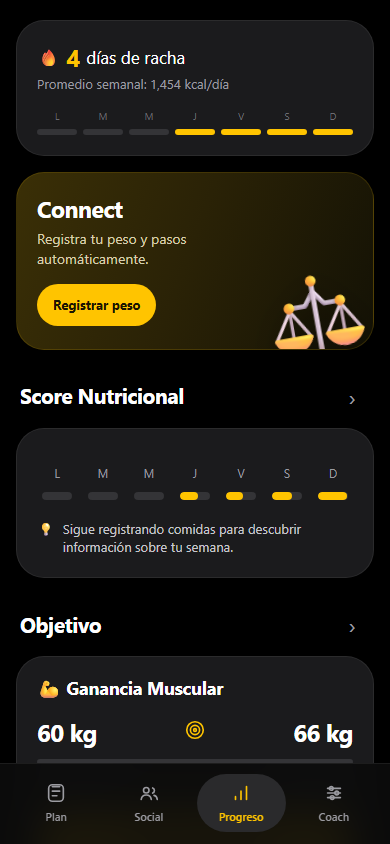
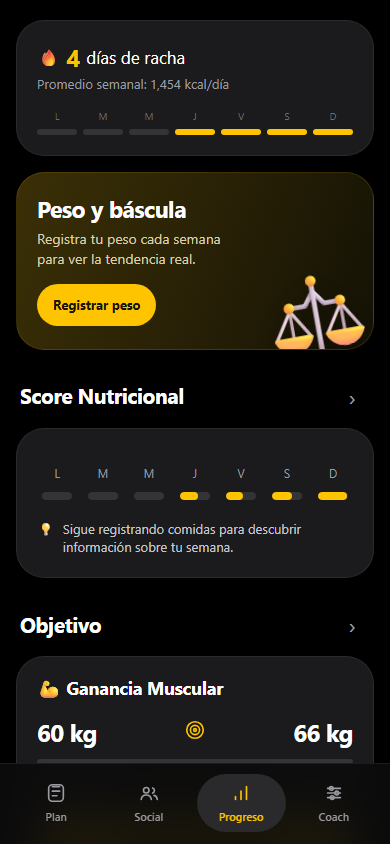
feat: comprimir fotos, deshacer sugerencias y compartir progreso

Changed region(s): [[0.0923, 0.2156, 0.5538, 0.3389], [0.0923, 0.3081, 0.1231, 0.3389]]

diff --git a/js/app.js b/js/app.js
@@ -76,7 +76,7 @@
     if (p.includes('desayuno')) {
       const items = Store.getDay(keyOf(new Date())).meals.desayuno;
       const names = items.map((i) => Store.foodById(i.id)?.name).filter(Boolean).join(' y ');
-      const breakfast = { label: 'Agregar desayuno sugerido', meal: 'desayuno', items: [{ id: 'avena', grams: 200 }, { id: 'huevo', grams: 100 }] };
+      const breakfast = { label: 'Reemplazar mi desayuno', action: 'replace', meal: 'desayuno', items: [{ id: 'avena', grams: 200 }, { id: 'huevo', grams: 100 }] };
       return {
         text: names
           ? `Tu desayuno de hoy lleva ${names}. Para variar sin salirte del plan, prueba avena con leche (200 g) y un huevo: aporta unos 530 kcal con proteínas y grasas más equilibradas.`
@@ -159,6 +159,20 @@
     }, 450);
   }
 
+  function compressImage(dataUrl, callback) {
+    const image = new Image();
+    image.onload = () => {
+      const scale = Math.min(1, 1024 / Math.max(image.width, image.height));
+      const canvas = document.createElement('canvas');
+      canvas.width = Math.max(1, Math.round(image.width * scale));
+      canvas.height = Math.max(1, Math.round(image.height * scale));
+      canvas.getContext('2d').drawImage(image, 0, 0, canvas.width, canvas.height);
+      callback(canvas.toDataURL('image/jpeg', 0.8));
+    };
+    image.onerror = () => callback(dataUrl);
+    image.src = dataUrl;
+  }
+
   function filterFoods(query) {
     const q = query.toLowerCase();
     document.querySelectorAll('#food-list .food-row').forEach((row) => {
@@ -181,6 +195,42 @@
     const grams = Number(inputValue('qty-input')) || 0;
     const n = Store.itemNutrition({ id: action.dataset.food, grams });
     preview.innerHTML = `<span>≈ ${UI.fmt(n.kcal)} kcal</span><span>${n.p}P / ${n.c}C / ${n.g}G</span>`;
+  }
+
+  function shareProgress() {
+    const proj = Store.projection();
+    const canvas = document.createElement('canvas');
+    canvas.width = 600;
+    canvas.height = 420;
+    const ctx = canvas.getContext('2d');
+    ctx.fillStyle = '#0b0b0b';
+    ctx.fillRect(0, 0, canvas.width, canvas.height);
+    ctx.fillStyle = '#ffc400';
+    ctx.font = 'bold 38px sans-serif';
+    ctx.fillText('NutriPlan', 40, 64);
+    ctx.fillStyle = '#ffffff';
+    ctx.font = 'bold 30px sans-serif';
+    ctx.fillText(`${proj.current} kg  →  ${proj.goal} kg`, 40, 124);
+    ctx.fillStyle = '#9b9ba1';
+    ctx.font = '20px sans-serif';
+    ctx.fillText(`Objetivo: ${Store.state.profile.goal}`, 40, 160);
+    ctx.fillText(`Racha: ${Store.streak()} días registrando`, 40, 190);
+
+    const days = Array.from({ length: 7 }, (_, i) => Store.totalsFor(keyOf(new Date(Date.now() - (6 - i) * 86400000))).kcal);
+    const max = Math.max(...days, 1);
+    days.forEach((value, i) => {
+      const height = (value / max) * 120;
+      ctx.fillStyle = i === 6 ? '#ffc400' : '#5d5d61';
+      ctx.fillRect(40 + i * 74, 330 - height, 46, height);
+    });
+    ctx.fillStyle = '#6c6c72';
+    ctx.font = '16px sans-serif';
+    ctx.fillText('Calorías de los últimos 7 días', 40, 380);
+    const link = document.createElement('a');
+    link.download = 'nutriplan-progreso.png';
+    link.href = canvas.toDataURL('image/png');
+    link.click();
+    toast('Imagen de progreso descargada');
   }
 
   function share(postId) {
@@ -412,6 +462,9 @@
       case 'share':
         share();
         break;
+      case 'share-progress':
+        shareProgress();
+        break;
       case 'story':
         openModal(UI.story(Number(el.dataset.index) || 0));
         break;
@@ -427,11 +480,24 @@
       case 'coach-apply': {
         const msg = Store.state.chat[Number(el.dataset.index)];
         if (!msg || !msg.suggestion) break;
-        const { meal, items } = msg.suggestion;
+        const suggestion = msg.suggestion;
+        const { meal, items } = suggestion;
         const today = keyOf(new Date());
+        if (suggestion.action === 'undo') {
+          Store.getDay(today).meals[meal] = suggestion.snapshot;
+          Store.save();
+          render();
+          toast('Cambio deshecho');
+          break;
+        }
+        const snapshot = JSON.parse(JSON.stringify(Store.getDay(today).meals[meal] || []));
+        if (suggestion.action === 'replace') Store.getDay(today).meals[meal] = [];
         items.forEach((item) => Store.addFood(today, meal, item.id, item.grams));
+        Store.addChat('coach', 'Listo, ya actualicé tu plan. Puedes deshacerlo si quieres.', {
+          label: 'Deshacer cambio', action: 'undo', meal, items: [], snapshot
+        });
         render();
-        toast(`${items.length} alimentos agregados a ${meal === 'cena' ? 'Cena' : meal === 'desayuno' ? 'Desayuno' : 'Snack 1'}`);
+        toast(suggestion.action === 'replace' ? 'Comida reemplazada' : `${items.length} alimentos agregados`);
         break;
       }
       case 'attach':
@@ -525,9 +591,11 @@
     if (event.target.id === 'food-photo-input' && event.target.files && event.target.files[0]) {
       const reader = new FileReader();
       reader.onload = () => {
-        pendingFoodPhoto = String(reader.result);
-        const preview = document.getElementById('food-photo-preview');
-        if (preview) preview.innerHTML = `<img src="${pendingFoodPhoto}" alt="Vista previa del alimento">`;
+        compressImage(String(reader.result), (photo) => {
+          pendingFoodPhoto = photo;
+          const preview = document.getElementById('food-photo-preview');
+          if (preview) preview.innerHTML = `<img src="${photo}" alt="Vista previa del alimento">`;
+        });
       };
       reader.readAsDataURL(event.target.files[0]);
     }
@@ -535,10 +603,12 @@
       const file = event.target.files[0];
       const reader = new FileReader();
       reader.onload = () => {
-        Store.addPhoto(String(reader.result));
-        openModal(UI.photo());
-        render();
-        toast('Foto guardada');
+        compressImage(String(reader.result), (photo) => {
+          Store.addPhoto(photo);
+          openModal(UI.photo());
+          render();
+          toast('Foto guardada');
+        });
       };
       reader.readAsDataURL(file);
     }

diff --git a/js/ui.js b/js/ui.js
@@ -175,6 +175,29 @@
     </div>`).join('');
   }
 
+  function calTrend() {
+    const today = new Date();
+    const days = Array.from({ length: 14 }, (_, i) => {
+      const date = addDays(today, i - 13);
+      const key = keyOf(date);
+      return { key, label: date.getDate(), value: Store.totalsFor(key).kcal };
+    });
+    const max = Math.max(Store.state.profile.targets.kcal, ...days.map((d) => d.value), 1);
+    const coords = days.map((d, i) => {
+      const x = 4 + (i / 13) * 92;
+      const y = 56 - (d.value / max) * 48;
+      return { x, y, value: d.value, label: d.label };
+    });
+    const line = coords.map((p, i) => `${i ? 'L' : 'M'} ${p.x.toFixed(1)} ${p.y.toFixed(1)}`).join(' ');
+    const logged = days.filter((d) => d.value > 0);
+    const average = logged.length ? Math.round(logged.reduce((sum, d) => sum + d.value, 0) / logged.length) : 0;
+    return `<div class="trend-head"><div><div class="small muted">Promedio registrado</div><strong>${average ? fmt(average) + ' kcal' : '—'}</strong></div><div class="small muted">${logged.length}/14 días</div></div>
+      <svg class="trend-svg" viewBox="0 0 100 62" preserveAspectRatio="none" aria-label="Tendencia de calorías de los últimos 14 días">
+        <path d="${line}" fill="none" stroke="var(--accent)" stroke-width="2" vector-effect="non-scaling-stroke" stroke-linejoin="round"/>
+        ${coords.filter((p) => p.value > 0).map((p) => `<circle cx="${p.x.toFixed(1)}" cy="${p.y.toFixed(1)}" r="1.4" fill="var(--accent)" vector-effect="non-scaling-stroke"/>`).join('')}
+      </svg>`;
+  }
+
   function renderProgreso() {
     const s = Store.state;
     const proj = Store.projection();
@@ -201,8 +224,8 @@
       ${streakCard}
       <section class="connect" style="margin-top:16px">
         <div>
-          <h2>Connect</h2>
-          <p>Registra tu peso y pasos automáticamente.</p>
+          <h2>Peso y báscula</h2>
+          <p>Registra tu peso cada semana para ver la tendencia real.</p>
           <button class="btn btn-sm" type="button" data-action="weight">Registrar peso</button>
         </div>
         <span class="connect-art" aria-hidden="true">⚖</span>
@@ -211,7 +234,7 @@
       <div class="section-head"><h2>Score Nutricional</h2><button class="link-arrow" type="button" data-action="score-detail" aria-label="Ver detalle del score">›</button></div>
       <section class="card score-card">
         <div class="score-week">${scoreCols}</div>
-        <div class="score-note"><span aria-hidden="true">💡</span><span>${Store.scoreFor(keyOf(new Date())) ? 'Sigue registrando comidas para descubrir información sobre tu semana.' : 'Sigue registrando comidas para descubrir información sobre tu semana.'}</span></div>
+        <div class="score-note"><span aria-hidden="true">💡</span><span>Sigue registrando comidas para descubrir información sobre tu semana.</span></div>
       </section>
 
       <div class="section-head"><h2>Objetivo</h2><button class="link-arrow" type="button" data-action="weight" aria-label="Editar objetivo">›</button></div>
@@ -225,6 +248,12 @@
         <div class="bar accent-bar"><i style="width:${Math.round(proj.progress * 100)}%"></i></div>
         <div class="goal-meta"><span>${ICONS.calendar} Llegarás en</span><strong>${proj.weeks} semanas</strong></div>
         <button class="btn" type="button" data-action="weight">+ Actualizar Progreso</button>
+      </section>
+
+      <div class="section-head"><h2>Últimos 14 días</h2><button class="link-arrow" type="button" data-action="share-progress" aria-label="Compartir progreso">↗</button></div>
+      <section class="card">
+        ${calTrend()}
+        <button class="btn btn-ghost btn-sm" type="button" data-action="share-progress" style="margin-top:14px;width:100%">Compartir mi progreso</button>
       </section>
 
       <div class="section-head"><h2>Estadísticas</h2><button class="link-arrow" type="button" data-action="stats-detail" aria-label="Ver estadísticas">›</button></div>

diff --git a/server/index.js b/server/index.js
@@ -78,8 +78,8 @@ Respondes en español, de forma breve (máximo 90 palabras), concreta y sin cons
 Analizas los datos del día del usuario y respondes SOLO con un objeto JSON válido:
 {"text":"respuesta al usuario","suggestion":null}
 o, si recomiendas alimentos concretos:
-{"text":"respuesta al usuario","suggestion":{"label":"Agregar ... sugerido","meal":"desayuno|almuerzo|cena|snack1|snack2","items":[{"id":"id_alimento","grams":150}]}}
-Usa únicamente ids de la lista de alimentos disponible que recibirás en el contexto.
+{"text":"respuesta al usuario","suggestion":{"label":"Agregar ... sugerido","action":"add|replace","meal":"desayuno|almuerzo|cena|snack1|snack2","items":[{"id":"id_alimento","grams":150}]}}
+Usa action "replace" cuando el usuario pida cambiar una comida y "add" cuando pida completar o agregar. Usa únicamente ids de la lista de alimentos disponible que recibirás en el contexto.
 No inventes ids ni valores. Si no tienes suficiente información, suggestion debe ser null.`;
 
 async function askAI(message, context) {

diff --git a/css/styles.css b/css/styles.css
@@ -397,6 +397,9 @@ h3 { font-size: 18px; line-height: 1.25; letter-spacing: -0.01em; font-weight: 7
 .goal-meta span { display: inline-flex; align-items: center; gap: 6px; }
 .goal-meta svg { width: 15px; height: 15px; fill: none; stroke: currentColor; stroke-width: 1.8; stroke-linecap: round; }
 
+.trend-head { display: flex; align-items: flex-end; justify-content: space-between; }
+.trend-head strong { font-size: 20px; }
+.trend-svg { width: 100%; height: 70px; margin-top: 14px; overflow: visible; }
 .stats-grid { display: grid; grid-template-columns: 1fr 1fr; gap: var(--s3); }
 .stat { min-height: 246px; display: flex; flex-direction: column; }
 .stat-title { display: flex; align-items: center; gap: 7px; font-size: 13px; color: var(--muted); }

diff --git a/scripts/capture.py b/scripts/capture.py
@@ -36,6 +36,9 @@ with sync_playwright() as p:
     # Comprobación: racha semanal
     page.locator('[data-tab="progreso"]').click()
     assert page.locator('.streak-card').count() == 1, "No aparece la tarjeta de racha"
+    with page.expect_download() as progress_download:
+        page.locator('[data-action="share-progress"]').first.click()
+    assert progress_download.value.suggested_filename == "nutriplan-progreso.png", "No se generó la imagen de progreso"
 
     # Vista completa de la pantalla Plan (sin la barra fija para que no tape el contenido)
     page.locator('[data-tab="plan"]').click()
@@ -84,6 +87,14 @@ with sync_playwright() as p:
     suggestion.last.click()
     page.locator('[data-tab="plan"]').click()
     assert page.get_by_text("Ensalada grande").first.is_visible(), "La sugerencia del coach no se agregó al plan"
+
+    # Comprobación: reemplazar y deshacer desde el Coach
+    page.locator('[data-tab="coach"]').click()
+    page.locator('[data-prompt="cambiar mi desayuno"]').click()
+    page.wait_for_timeout(900)
+    page.locator('[data-action="coach-apply"]').last.click()
+    assert page.get_by_text("Deshacer cambio").count() >= 1, "No se ofreció deshacer"
+    page.locator('[data-action="coach-apply"]').last.click()
 
     # Comprobación: agua y cambio de día
     page.locator('[data-tab="plan"]').click()
